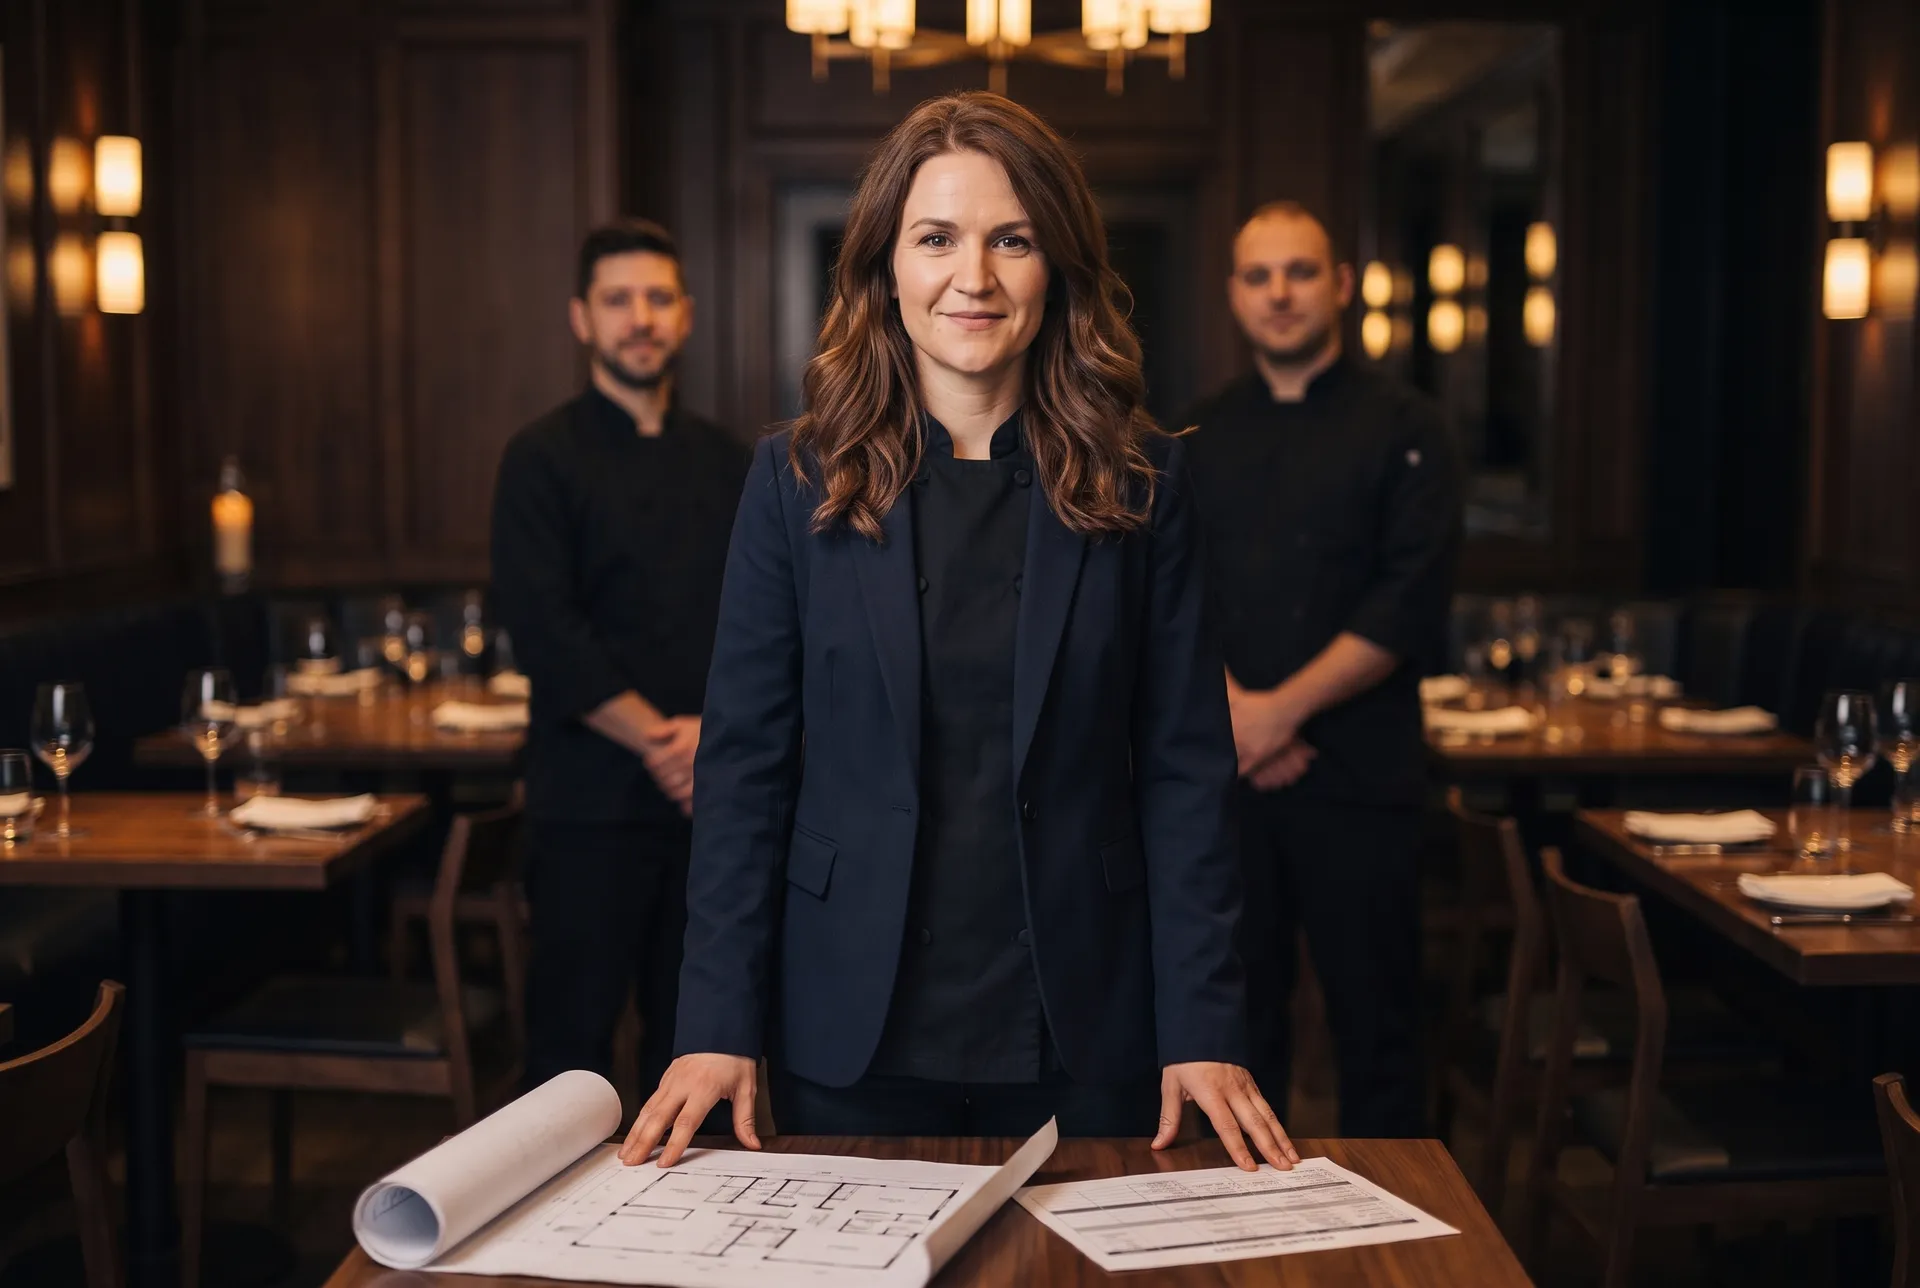
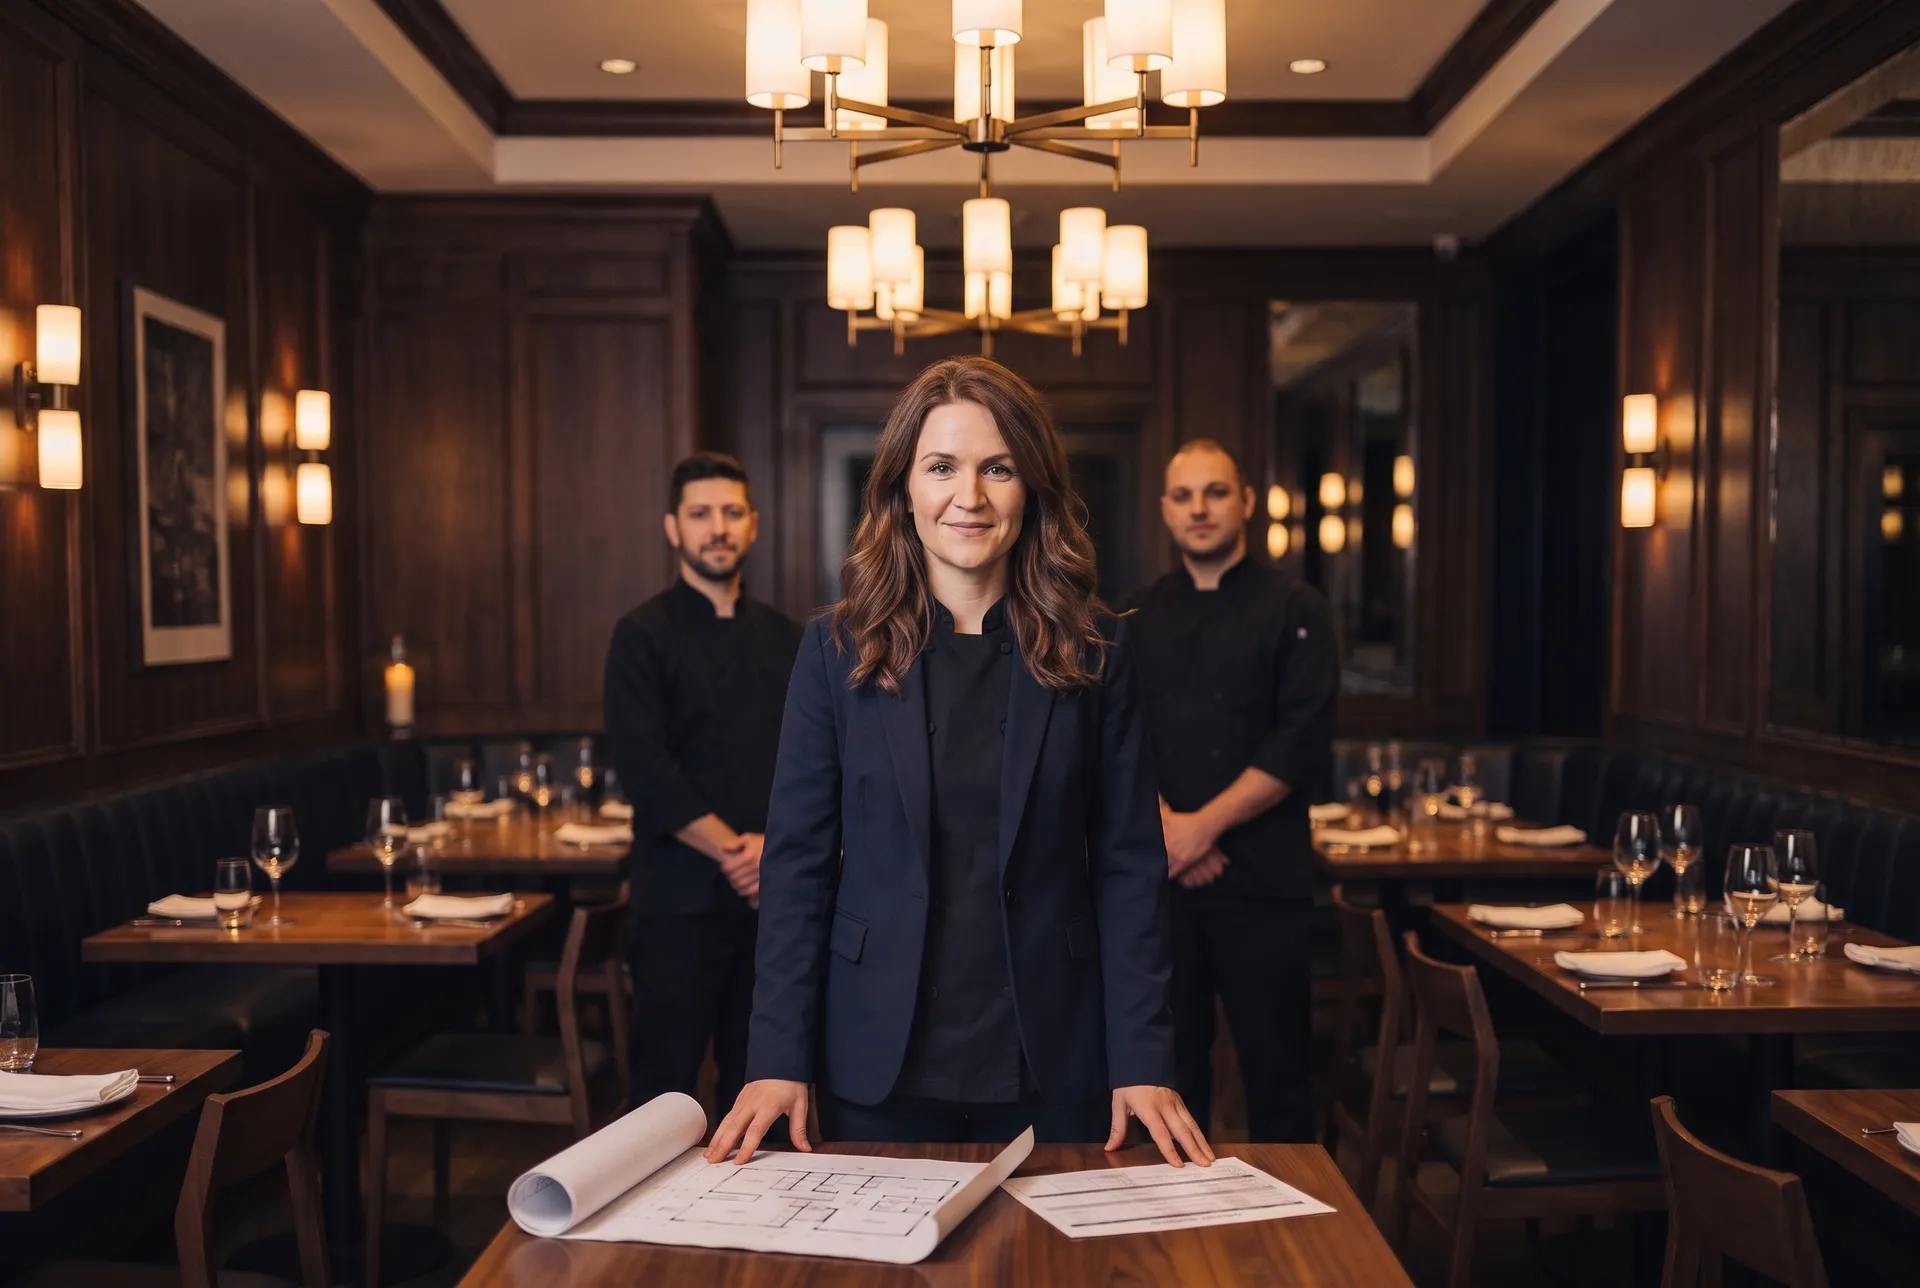
fix(landing): every head keeps its space — recomposed frames, a safe camera
Owner visual direction 2026-09-30: in several hero frames the head or
hair was cut, and the camera may never fix a tight source by cropping
the person harder.

- Media: the 10 frames whose figure reached the top 10 % of the frame
  were recomposed (same photograph and moment, the camera a step back;
  everyone in the scene stays). Every frame now leaves >= 12 % above the
  figure. New `--recompose` mode keeps the previous raw beside it.
- Camera: a head-safety rule. For every instant of the story the camera
  point is lowered just enough that the top of every visible figure
  keeps a safe margin (76 px desktop, 60 px phone) — computed once per
  stage size, spread and smoothed over time, so it never jumps. Measured
  over the whole 136 s timeline: min 81 px desktop, 67 px phone.
- Player Card crown: the portrait is framed from above the head.

diff --git a/apps/web/components/marketing/living-worker-hero.tsx b/apps/web/components/marketing/living-worker-hero.tsx
@@ -290,7 +290,7 @@ function PlayerCard({
             height={story.portrait.height}
             decoding="async"
             className="lwh-portrait absolute inset-0 h-full w-full object-cover transition-[object-position] duration-700"
-            style={{ objectPosition: more ? "50% 24%" : "50% 30%" }}
+            style={{ objectPosition: more ? "50% 10%" : "50% 14%" }}
           />
         ) : null}
         <div aria-hidden className="absolute inset-0 bg-gradient-to-t from-ink-900 via-ink-900/35 via-40% to-transparent" />
@@ -486,6 +486,8 @@ export function LivingWorkerHero({ data, children }: { data: LivingWorkerHeroDat
   const flags = useRef({ playing: false, holdCard: false, holdPerson: false, motion: false });
   const camNow = useRef<Cam>({ x: 0, y: 0, f: 0 });
   const figNow = useRef({ x0: 0, y0: 0, x1: 0, y1: 0 });
+  // (development review only: the highest head top among the visible figures)
+  const headNow = useRef(Infinity);
   const kRef = useRef(0);
   const capRef = useRef(0);
   const phaseRef = useRef<Phase>("none");
@@ -554,6 +556,51 @@ export function LivingWorkerHero({ data, children }: { data: LivingWorkerHeroDat
     [N, timeline],
   );
 
+  /** HEAD SAFETY. Holding the face on one point must never push anyone's
+   *  head (hair, helmet) out of the frame or under the controls. For every
+   *  instant of the story this is how far the camera's face point has to be
+   *  lowered so the top of every visible figure keeps a safe margin — worked
+   *  out once per stage size, spread over the neighbouring seconds and
+   *  smoothed, so the camera eases down and back up and never jumps. */
+  const lift = useMemo(() => {
+    if (!box || !cams || !nodes) return null;
+    const STEP = 50;
+    const n = Math.ceil(timeline.T / STEP);
+    const safe = small ? 60 : 76;
+    const need = new Float32Array(n);
+    for (let i = 0; i < n; i++) {
+      const c = i * STEP;
+      const cam = spline(nodes, timeline.T, c);
+      // the person-focus zoom may add up to 5 %
+      const camZ: Cam = { ...cam, f: cam.f * 1.05 };
+      const { j, p, next } = locate(c);
+      let worst = 0;
+      for (const idx of p > 0 ? [j, next] : [j]) {
+        const m = momentOf(idx).m;
+        const { s } = placeOn(m, box, camZ, 1.05, cams[idx]!.sc);
+        const headTop = cam.y - (m.face.y - m.figure.y0) * m.height * s;
+        worst = Math.max(worst, safe - headTop);
+      }
+      need[i] = worst;
+    }
+    // spread: the camera starts easing before it is needed and stays after
+    const W = Math.round(1800 / STEP);
+    const spread = new Float32Array(n);
+    for (let i = 0; i < n; i++) {
+      let v = 0;
+      for (let d = -W; d <= W; d++) v = Math.max(v, need[mod(i + d, n)]!);
+      spread[i] = v;
+    }
+    const B = Math.round(900 / STEP);
+    const out = new Float32Array(n);
+    for (let i = 0; i < n; i++) {
+      let sum = 0;
+      for (let d = -B; d <= B; d++) sum += spread[mod(i + d, n)]!;
+      out[i] = sum / (2 * B + 1);
+    }
+    return { STEP, out };
+  }, [box, cams, nodes, small, timeline.T, locate, momentOf]);
+
   /** Render the scene at the clock's current value. */
   const apply = useCallback(() => {
     if (!box || !cams || !nodes) return;
@@ -590,7 +637,14 @@ export function LivingWorkerHero({ data, children }: { data: LivingWorkerHeroDat
 
     // the camera
     const cam0 = spline(nodes, timeline.T, st.c);
-    const cam: Cam = { ...cam0, f: cam0.f * (1 + 0.05 * st.focus) };
+    let down = 0;
+    if (lift) {
+      const x = st.c / lift.STEP;
+      const i0 = Math.floor(x) % lift.out.length;
+      const i1 = (i0 + 1) % lift.out.length;
+      down = lift.out[i0]! + (lift.out[i1]! - lift.out[i0]!) * (x - Math.floor(x));
+    }
+    const cam: Cam = { ...cam0, y: cam0.y + Math.max(0, down), f: cam0.f * (1 + 0.05 * st.focus) };
     camNow.current = cam;
     // a subtle orbit around the person: the world shifts a little more than
     // they do, never so much that their outline doubles at the layer edge
@@ -600,6 +654,7 @@ export function LivingWorkerHero({ data, children }: { data: LivingWorkerHeroDat
     const poseChange = momentOf(next).m.bridge;
     const e = easeSine(clamp(p, 0, 1));
 
+    headNow.current = Infinity;
     const put = (i: number, zoomBg: number, zoomFg: number) => {
       const layer = layers.current.get(i);
       if (!layer) return null;
@@ -609,6 +664,7 @@ export function LivingWorkerHero({ data, children }: { data: LivingWorkerHeroDat
       const f = placeOn(m, box, cam, zoomFg, sc0);
       layer.bg.style.transform = `translate3d(${b.tx + par.x}px, ${b.ty + par.y}px, 0) scale(${b.k})`;
       layer.fg.style.transform = `translate3d(${f.tx + parFg.x}px, ${f.ty + parFg.y}px, 0) scale(${f.k})`;
+      headNow.current = Math.min(headNow.current, f.ty + m.figure.y0 * m.height * f.s);
       return { layer, f, m };
     };
 
@@ -678,7 +734,7 @@ export function LivingWorkerHero({ data, children }: { data: LivingWorkerHeroDat
       vignette.current.style.opacity = String(0.55 * st.focus);
       vignette.current.style.background = `radial-gradient(ellipse 34% 60% at ${cam.x}px ${cam.y + cam.f * 2.2}px, transparent 45%, rgb(var(--c-ink-900) / 0.85) 100%)`;
     }
-  }, [box, cams, nodes, locate, momentOf, shownOf, timeline.T]);
+  }, [box, cams, nodes, lift, locate, momentOf, shownOf, timeline.T]);
 
   // the clock
   useEffect(() => {
@@ -727,6 +783,7 @@ export function LivingWorkerHero({ data, children }: { data: LivingWorkerHeroDat
         apply();
       },
       clock: () => clock.current.c,
+      head: () => headNow.current,
       /** where the person's face is on the page right now */
       face: () => {
         const r = stage.current?.getBoundingClientRect();

diff --git a/apps/web/lib/guards/landing-freeze.ts b/apps/web/lib/guards/landing-freeze.ts
@@ -691,6 +691,10 @@ export const FROZEN_LANDING_FILES = [
   // (one body on screen, never a dissolve), and the Player Card became one
   // identity object — the person closed, the identity unfolding when open.
   // The regeneration touched EXACTLY ONE hash — living-worker-hero.tsx.
+  // 2026-09-30 (owner visual direction: heads were cut): tight source frames
+  // recomposed with safe space above the head (media), and a head-safety
+  // rule in the camera so holding the face never pushes a head out of frame.
+  // The regeneration touched EXACTLY ONE hash — living-worker-hero.tsx.
   "components/marketing/living-worker-hero.tsx",
   "lib/marketing/living-worker-hero.ts",
 ] as const;
